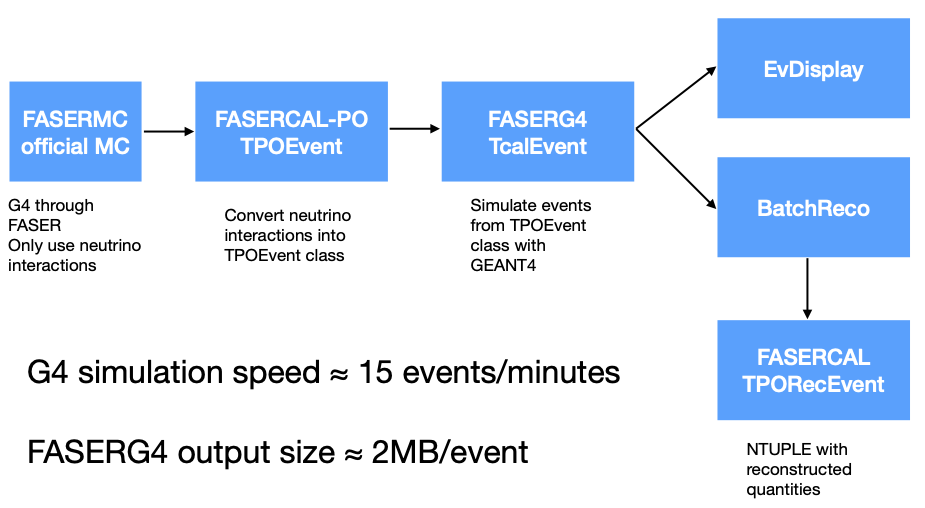
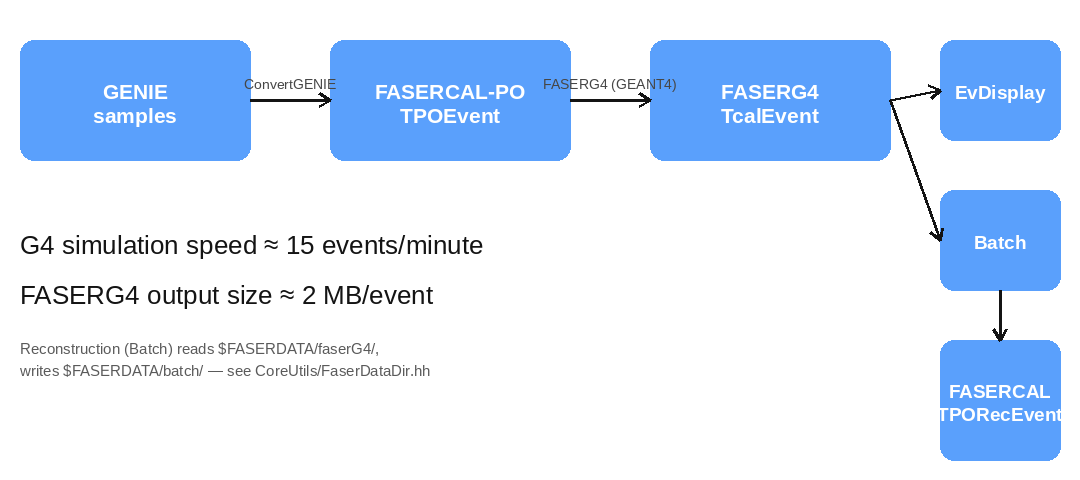
Add /mdt/verbose command, fb build shortcut, rewrite README, update diagram
MDT verbosity: wire a new /mdt/verbose UI command (FASERG4/include and
src/DetectorMessenger.{hh,cc}) into MDTSD::SetVerbose(), ported from the
muondis branch (commit d2c4931) where the underlying MDTSD::fVerbose
machinery already existed but was never reachable from a macro. Default
changed from 1 (one line per hit) to 0 (silent) in MDTSD.cc, so a normal
run is quiet unless /mdt/verbose is explicitly raised.

Build convenience: common_setup.sh now defines fb(), a shell function
(not a plain alias, so it can print a banner first) that reruns
cmake --build $HOMEFASER/build -j from anywhere, and advertises it at
the end of a successful `source setup.sh`.

README.md: rewritten to match the current CMake-based build - removed
the obsolete "Install event display" Makefile/symlink instructions, the
misnamed "FASERTuple" section (that directory doesn't exist; it's
ConvertFASERMC), and the incomplete batchreco.exe usage line; added a
Quick start section (build, $FASERDATA, run_faserps.py/run_batchreco.py
examples, and how to run the gtests via ctest), and a ConvertGENIE
section that wasn't documented before at all.

images/eventchainflow.png: regenerated to show GENIE samples ->
ConvertGENIE -> TPOEvent as the pipeline's source (replacing the old
FASERMC official MC box) and rename BatchReco -> Batch, matching
README's current wording; no source file existed for this diagram, so
it was rebuilt from scratch in the same visual style.
[…]

diff --git a/FASERG4/src/DetectorMessenger.cc b/FASERG4/src/DetectorMessenger.cc
@@ -1,5 +1,7 @@
 #include "DetectorMessenger.hh"
 
+#include "MDTSD.hh"
+
 
 //....oooOO0OOooo........oooOO0OOooo........oooOO0OOooo........oooOO0OOooo......
 
@@ -119,6 +121,14 @@ DetectorMessenger::DetectorMessenger(DetectorConstruction* det) : fDetectorConst
 	fThreeDCALShiftYCmd->SetUnitCategory("Length");
 	fThreeDCALShiftYCmd->SetDefaultUnit("cm");
 	fThreeDCALShiftYCmd->AvailableForStates(G4State_PreInit, G4State_Idle);
+
+	fMDTDirectory = new G4UIdirectory("/mdt/");
+	fMDTDirectory->SetGuidance("MDT (Monitored Drift Tube) sensitive-detector control.");
+
+	fMDTVerboseCmd = new G4UIcmdWithAnInteger("/mdt/verbose", this);
+	fMDTVerboseCmd->SetGuidance("Set MDTSD hit-printout verbosity: 0=silent (default), 1=one line per hit, 2=adds raw/closest positions, 3=full dump.");
+	fMDTVerboseCmd->SetParameterName("level", false);
+	fMDTVerboseCmd->AvailableForStates(G4State_PreInit, G4State_Idle);
 }
 
 //....oooOO0OOooo........oooOO0OOooo........oooOO0OOooo........oooOO0OOooo......
@@ -145,6 +155,8 @@ DetectorMessenger::~DetectorMessenger()
 	delete fTiltYCmd;
 	delete fThreeDCALShiftXCmd;
 	delete fThreeDCALShiftYCmd;
+	delete fMDTVerboseCmd;
+	delete fMDTDirectory;
 }
 
 //....oooOO0OOooo........oooOO0OOooo........oooOO0OOooo........oooOO0OOooo......
@@ -218,6 +230,10 @@ void DetectorMessenger::SetNewValue(G4UIcommand* command, G4String newValue)
 
 	if (command == fThreeDCALShiftYCmd) {
     	fDetectorConstruction->fThreeD_CAL_shiftY = fThreeDCALShiftYCmd->GetNewDoubleValue(newValue);
+	}
+
+	if (command == fMDTVerboseCmd) {
+		MDTSD::SetVerbose(fMDTVerboseCmd->GetNewIntValue(newValue));
 	}
 }
 

diff --git a/FASERG4/src/MDTSD.cc b/FASERG4/src/MDTSD.cc
@@ -19,7 +19,7 @@ MDTSD::MDTSD(const G4String& name)
 MDTSD::~MDTSD()
 {}
 
-int MDTSD::fVerbose = 1;
+int MDTSD::fVerbose = 0; // default silent; override with /mdt/verbose <level> (see DetectorMessenger)
 
 void MDTSD::Initialize(G4HCofThisEvent*)
 {

diff --git a/README.md b/README.md
@@ -1,54 +1,145 @@
 # FASERCAL - electronic calorimeter for FASER Run4
 
-FASERCAL code to simulate and analyse events in the FASERCAL detector
+FASERCAL code to simulate and analyse events in the FASERCAL detector.
 
 # Event data flow
 
-This project follows a structured workflow for simulating and processing neutrino interactions within the FASERCAL experiment using GEANT4. The process begins with the FASERMC official Monte Carlo (MC) simulation. These interactions are converted into the TPOEvent class format by **ConvertFASERMC**. Next, the **FASERG4** module uses GEANT4 to simulate events from the TPOEvent class, generating TcalEvent objects. These simulated events can be visualized using the **EvDisplay** module or processed through the **BatchReco** module for batch reconstruction, providing a comprehensive analysis pipeline for neutrino interaction events.
+This project follows a structured workflow for simulating and processing neutrino interactions within the FASERCAL experiment using GEANT4. The process begins with GENIE-generated neutrino-interaction samples, converted into the TPOEvent class format by **ConvertGENIE** (official FASERMC Monte Carlo files can be converted the same way with **ConvertFASERMC** instead). Next, the **FASERG4** module uses GEANT4 to simulate events from the TPOEvent class, generating TcalEvent objects. These simulated events can be visualized using the **EvDisplay** module or processed through the **Batch** module for batch reconstruction, providing a comprehensive analysis pipeline for neutrino interaction events.
 
 ![Diagram of the project](images/eventchainflow.png)
 
-# BatchReco (in Batch directory)
+# Quick start
 
-Basic code to read FASERCAL GEANT4 output and batch reconstruct events, filling histograms, ...
+The full build is CMake-based; see `INSTALL.md` for prerequisites, build
+options and troubleshooting. This section just covers the everyday
+build/run/test loop once your machine is already set up.
 
-Usage: ./batchreco.exe <run> [maxevent] [mask]
-   <run>                     Run number
-   maxevent                  Maximum number of events to process (def=-1)
-   mask                      To process only specific events (def=none):   nueCC, numuCC, nutauCC, nuNC or nuES
+## Build
+
+```bash
+git clone https://github.com/rubbiaa/FASER.git
+cd FASER
+source setup.sh                                      # sets up ROOT/Geant4/Pythia8 for known sites
+cmake -S . -B build -DCMAKE_BUILD_TYPE=RelWithDebInfo
+cmake --build build -j
+```
+
+The first build also fetches and compiles CLHEP, Rave, GenFit, googletest
+and Pythia8 (see `INSTALL.md`), so it can take a while; later builds are
+incremental. `source setup.sh` also defines a shortcut, `fb`, that reruns
+`cmake --build $HOMEFASER/build -j` from anywhere - useful after a quick
+source edit.
+
+All executables land in `build/bin/` (`faserps`, `batchreco.exe`,
+`evDisplay.exe`, `ConvertGENIE.exe`, `Convert.exe`, ...).
+
+## Where simulation/reconstruction data lives
+
+Every executable that reads or writes FASERG4/batchreco data resolves the
+location through `$FASERDATA` (`FASER::GetDataDir()`,
+`CoreUtils/FaserDataDir.hh`) rather than a hardcoded path or symlink.
+`setup.sh`/`common_setup.sh` default `FASERDATA` to `$HOMEFASER/data`
+(gitignored) and create it automatically; a specific site or checkout can
+point it elsewhere (scratch, EOS, ...) by exporting it before
+`common_setup.sh` runs - see the comments in `setup.sh`. `FASERG4` writes
+under `$FASERDATA/faserG4/`, `Batch` reads that and writes under
+`$FASERDATA/batch/`.
+
+## Run faserps (the GEANT4 simulation)
+
+```bash
+python3 run_faserps.py                       # 100 events, V10 geometry, the current default sample
+python3 run_faserps.py --n-events 500 --input-file some_other_sample.root
+python3 run_faserps.py --muons --n-events 1000 --muon-momentum-gev 250
+```
+
+`run_faserps.py` builds the V10-geometry macro in memory and pipes it
+straight to `faserps`' stdin - there's no `.mac` file to keep in sync by
+hand. See `run_faserps.md` for every option (custom geometry parameters,
+`--vis` for the interactive Geant4 UI, `--print-macro`/`--dry-run`, muon
+mode, ...).
+
+## Run batchreco (reconstruction)
+
+```bash
+python3 run_batchreco.py --run 10000                          # reconstruct all of run 10000
+python3 run_batchreco.py --run 10000 --mask numuCC             # only numuCC events
+python3 run_batchreco.py --run 10000 --max-event 12000 --split 6   # split into 6 background jobs
+```
+
+`run_batchreco.py` wraps `Batch/batchreco.exe` with named, validated
+flags instead of positional arguments. See `run_batchreco.md` for the full
+option list (event ranges, `--multi-thread`, a non-default `--geometry-file`,
+splitting a run into parallel background jobs, ...).
+
+## Run the tests (gtests)
+
+FASER has its own small C++ regression test suite under `Tests/`, built on
+Google Test (fetched automatically as part of the superbuild, see
+`INSTALL.md`) and registered with CTest:
+
+- **MuonSpectrometerFieldTest** - cross-checks that the GEANT4
+  simulation's muon-spectrometer magnetic field
+  (`FASERG4/src/MuonDetMagneticField.cc`) and GenFit reconstruction's
+  field (`CoreUtils/GenMagneticField.hh`) actually agree. Both are thin
+  adapters around the one shared field model in
+  `CoreUtils/MuonSpectrometerField.hh`; this test is what proves the two
+  adapters wire it up identically, rather than just trusting that by
+  inspection.
+- **MagnetGeometryProbeTest** - unit tests for `FASER::ProbeMagnetSlit`
+  (`CoreUtils/MagnetGeometryProbe.hh`), the geometry/field consistency
+  probe: builds small ROOT `TGeo` shapes by hand to prove the probe both
+  agrees with the real MDT magnet's numbers and actually detects a
+  genuine mismatch when block and slit are deliberately built
+  inconsistent.
+
+They're built automatically whenever `FASER_BUILD_TESTS` and
+`FASER_BUILD_GEANT4_PACKAGES` are both `ON` (the default for both). Run
+them with:
+
+```bash
+ctest --test-dir build --output-on-failure
+```
+
+or build/run one directly, e.g. `build/bin/MuonSpectrometerFieldTest`.
+Run these after touching either magnetic-field adapter, the shared field
+model, or the magnet geometry probe.
 
 # EvDisplay
 
-EvDisplay - basic Interactive Event Display of FASERCAL GEANT4 output
+Interactive event display of FASERG4 output.
 
-Usage: ./evDisplay.exe <run> [mask]
+Usage: `evDisplay.exe [-g <geometryfile>] [-r] <run> [mask]`
    <run>                     Run number
    mask                      To process only specific events (def=none):   nueCC, numuCC, nutauCC, or nuNC
+
+It reads from `$FASERDATA/faserG4/` like every other tool above - no
+`input` symlink to set up first.
 
 - run the event display
 
    to display nueCC events
    ```bash
-   $ ./evDisplay.exe 200026 nueCC
+   $ build/bin/evDisplay.exe 200026 nueCC
    ````
 
    to display numuCC events
    ```bash
-   $ ./evDisplay.exe 200025 numuCC
+   $ build/bin/evDisplay.exe 200025 numuCC
    ````
 
    to display nutauCC events
    ```bash
-   $ ./evDisplay.exe 200035 nutauCC
+   $ build/bin/evDisplay.exe 200035 nutauCC
    ````
 
 ![Diagram of the project](images/numuCC_ev1.jpg)
 
-# DumpHits (in BatchReco directory)
+# DumpHits (in Batch directory)
 
-Very simple app to read and dump all hits from events
+Very simple app to read and dump all hits from events.
 
-Usage: ./dumphits.exe <run> [maxevent] [mask]
+Usage: `dumphits.exe <run> [maxevent] [mask]`
    <run>                     Run number
    maxevent                  Maximum number of events to process (def=-1)
    mask                      To process only specific events (def=none):   nueCC, numuCC, nutauCC, nuNC or nuES
@@ -56,12 +147,21 @@ Usage: ./dumphits.exe <run> [maxevent] [mask]
 for example to get all the hits of nueCC events from the kaon decay flux:
 
    ```bash
-   $ ./dumphits.exe 200026 10 nueCC > dump.log
+   $ build/bin/dumphits.exe 200026 10 nueCC > dump.log
    ```
 
-# FASERTuple
+# ConvertFASERMC
 
-Convert official FASER MC files into FASERCAL PO files (generator level) 
+Converts official FASER MC files into FASERCAL PO files (generator level),
+producing the TPOEvent-format input `faserps`/FASERG4 consumes. Built as
+`Convert.exe`.
+
+# ConvertGENIE
+
+Converts GENIE-generated event files into the same TPOEvent format, as an
+alternative to ConvertFASERMC for GENIE-based samples. Built as
+`ConvertGENIE.exe`; `CombineFluxes.exe` (same directory) combines flux
+files upstream of it.
 
 # TauSearch
 A generator level tau search analysis code
@@ -70,53 +170,24 @@ A generator level tau search analysis code
 - s.C : analyse event summary tuples for each tau decay channel and create sig/background tuples
 - a.C : read sig/bkg tuples for each decay channel and perform BDT analysis
 
-# Installation preliminaries
+# Installation
 
-- Get the source code:
+See `INSTALL.md` for the full CMake build: prerequisites, build options,
+and troubleshooting a clean build. In short:
 
-   ```bash
-   $ git clone https://github.com/rubbiaa/FASER.git
-   ````
+```bash
+git clone https://github.com/rubbiaa/FASER.git
+cd FASER
+source setup.sh
+cmake -S . -B build -DCMAKE_BUILD_TYPE=RelWithDebInfo
+cmake --build build -j
+```
 
-- Set up ROOT and GEANT4 environment by sourcing `setup.sh` - it
-  auto-detects which known site you're on (including lxplus) and sets
-  ROOT/Geant4/Pythia8 up accordingly, so the same command works
-  everywhere:
-
-   ```bash
-   $ source setup.sh
-   ````
-
-  On a machine it doesn't recognize, it prints what to do - see the
-  comments at the top of `setup.sh` for how to add your own site.
-
-  (See also `INSTALL.md` for the current CMake-based build, which
-  supersedes the steps below for everything except the event display.)
-
-# Install event display
-
- - move to the evDisplay directory and compile with "make"
-
-   ```bash
-   $ cd evDiplay
-   $ make
-   ````
-
- - if compilation and linking was successful, the executable is "evDisplay.eve"
-
- - make sure G4 FASERCAL simulated files are linked at the "input" subdirectory
- 
-   ```bash
-   $ ln -fs </path_to_g4_simulated_data> input
-   ````
-
- - on lxplus.cern.ch, there is data available
-
-   ```bash
-    $ ln -fs /eos/home-r/rubbiaa/FASERCALDATA_v2.0 input
-   ````
-
-   For this to work, you need to be able to access my CERNBOX - please send me an email and I will give you access.
+`setup.sh` auto-detects which known site you're on (including lxplus) and
+sets up ROOT/Geant4/Pythia8 accordingly, so the same command works
+everywhere; on a machine it doesn't recognize, it prints what to do (add
+an `elif` branch for your site - see the comments at the top of the
+script).
 
  # Event masks
 
@@ -148,4 +219,3 @@ A generator level tau search analysis code
 # Instructions for Reading ROOT Files using PyROOT
 
 Please check the directory `Python_io`
-
